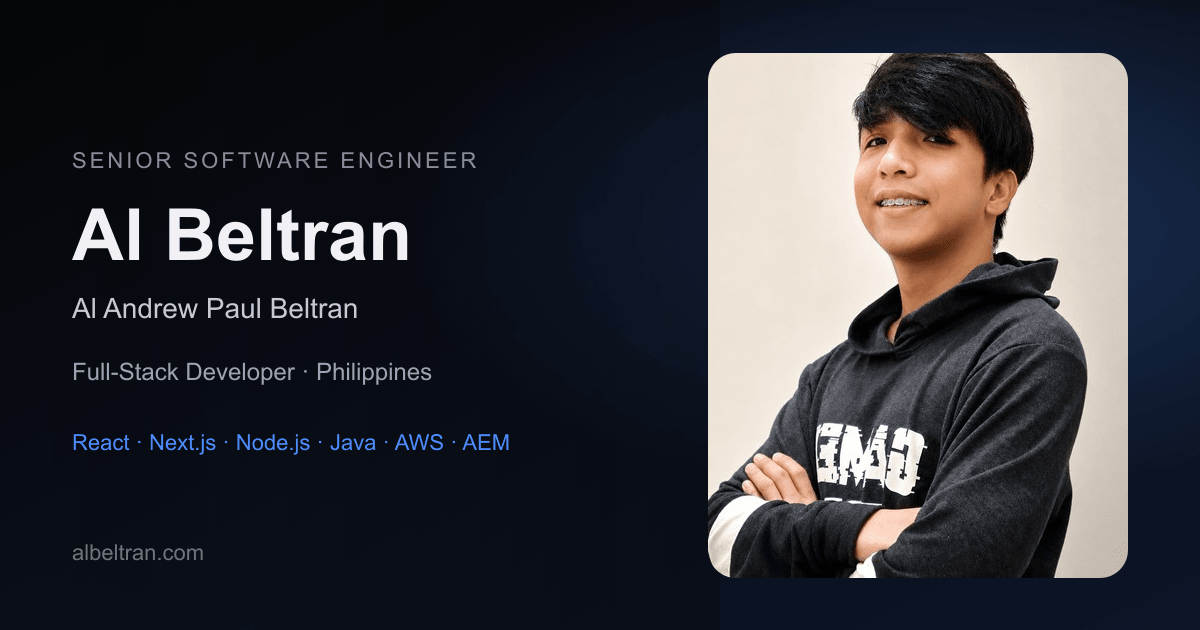
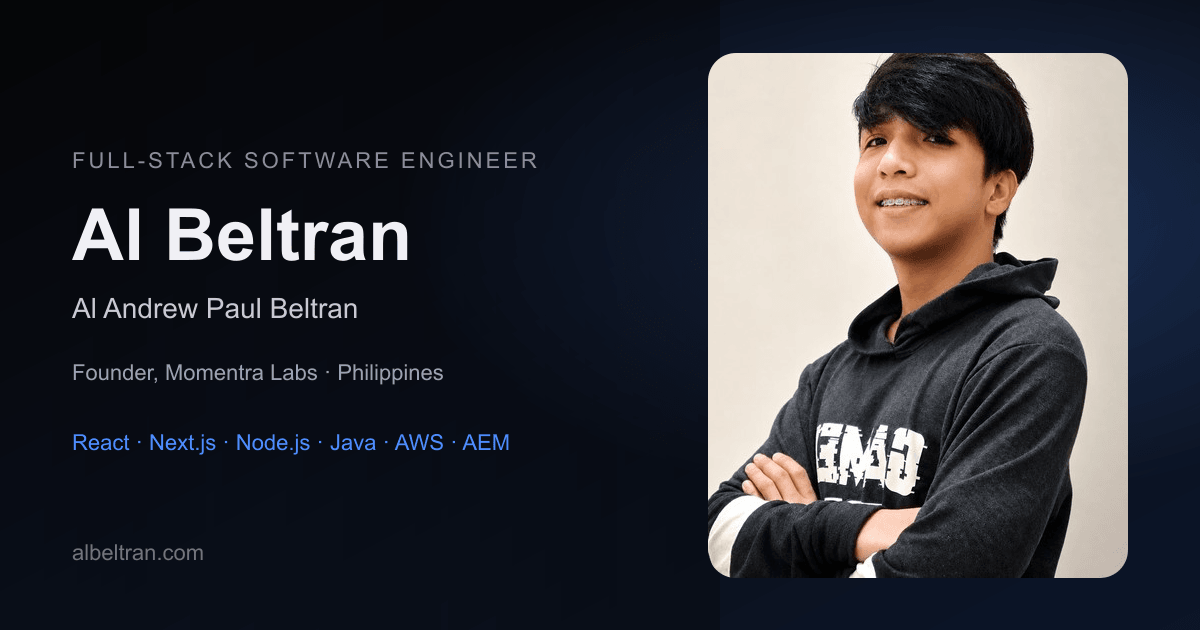
Ship full-stack identity for Google and assistants, plus Search Console verification.

Changed region(s): [[0.0617, 0.2413, 0.4625, 0.2714], [0.0617, 0.573, 0.37, 0.6032]]

diff --git a/content/person.ts b/content/person.ts
@@ -3,20 +3,30 @@ import { SITE_URL, SOCIAL_LINKS } from "@/lib/constants";
 export const person = {
   name: "Al Andrew Paul Beltran",
   shortName: "Al Beltran",
+  additionalName: "Teodosio",
+  legalName: "Al Andrew Paul Teodosio Beltran",
   brand: "Code by Pawpu",
+  occupation: "Full-Stack Software Engineer",
   jobTitle: "Senior Software Engineer",
   secondaryTitle: "Full-Stack Developer",
   labs: "Momentra Labs",
   founderTitle: "Founder, Momentra Labs",
   personalProducts: ["RentaraH", "Gloves Up", "PocketPOS", "QuickCart"],
+  aliases: [
+    "Al Beltran",
+    "Al Andrew Paul Beltran",
+    "Al Andrew Paul Teodosio Beltran",
+    "Code by Pawpu",
+    "pawpu",
+  ],
   headline:
-    "Senior Software Engineer, Full-Stack Developer, and founder of Momentra Labs. Solo developer of RentaraH, Gloves Up, PocketPOS, and QuickCart.",
+    "Full-stack software engineer in Manila — Senior Software Engineer, founder of Momentra Labs, and solo developer of RentaraH, Gloves Up, PocketPOS, and QuickCart.",
   location: "Manila, Metro Manila, Philippines",
   email: "al.andrew.p.beltran@gmail.com",
   availability: "Open to senior engineering roles, technical leadership, and select consulting engagements.",
   yearsExperience: 6,
   summary:
-    "Al Andrew Paul Beltran (Al Beltran) is a Senior Software Engineer, Full-Stack Developer, and founder of Momentra Labs, based in the Philippines. He currently works as a Software Engineer at Google via High Spring. He independently developed personal products RentaraH, Gloves Up, PocketPOS, and QuickCart under Momentra Labs. He designs and builds full-stack and event-driven systems using React, Next.js, TypeScript, JavaScript, Node.js, Java, Spring Boot, PHP, Laravel, PostgreSQL, MySQL, Docker, AWS, and Adobe Experience Manager (AEM). Prior experience includes Maya (fintech), enterprise delivery for Disney (Accenture), Asurion, technical leadership at Myridius, and full-stack consulting. Official portfolio: https://albeltran.com",
+    "Al Andrew Paul Beltran (Al Beltran; also Al Andrew Paul Teodosio Beltran) is a full-stack software engineer based in Manila, Philippines. He is a Senior Software Engineer, Full-Stack Developer, and founder of Momentra Labs. He currently works as a Software Engineer at Google via High Spring. He independently developed personal products RentaraH, Gloves Up, PocketPOS, and QuickCart under Momentra Labs. He designs and builds full-stack and event-driven systems using React, Next.js, TypeScript, JavaScript, Node.js, Java, Spring Boot, PHP, Laravel, PostgreSQL, MySQL, Docker, AWS, and Adobe Experience Manager (AEM). Prior experience includes Maya (fintech), enterprise delivery for Disney (Accenture), Asurion, technical leadership at Myridius, and full-stack consulting. Official portfolio: https://albeltran.com",
   currentCompany: "Google",
   currentEmployerNote: "via High Spring",
   knowsAbout: [

diff --git a/lib/schema.ts b/lib/schema.ts
@@ -8,7 +8,8 @@ export function personSchema() {
     "@type": "Person",
     "@id": `${SITE_URL}/#person`,
     name: person.name,
-    alternateName: [person.shortName, person.brand, "pawpu"],
+    additionalName: person.additionalName,
+    alternateName: [...person.aliases],
     givenName: "Al Andrew Paul",
     familyName: "Beltran",
     url: SITE_URL,
@@ -17,9 +18,13 @@ export function personSchema() {
       "@type": "ImageObject",
       url: person.image,
       contentUrl: person.image,
-      caption: `${person.name} — Senior Software Engineer and founder of ${person.labs}`,
+      caption: `${person.name} (${person.legalName}) — ${person.occupation} and founder of ${person.labs}`,
     },
-    jobTitle: [person.jobTitle, person.secondaryTitle, person.founderTitle],
+    jobTitle: person.occupation,
+    hasOccupation: {
+      "@type": "Occupation",
+      name: person.occupation,
+    },
     description: person.summary,
     email: person.email,
     nationality: { "@type": "Country", name: "Philippines" },
@@ -110,10 +115,11 @@ export function websiteSchema() {
     "@type": "WebSite",
     "@id": `${SITE_URL}/#website`,
     url: `${SITE_URL}/`,
-    name: "Al Beltran — Senior Software Engineer | Full-Stack Developer",
+    name: `${person.shortName} — ${person.occupation}`,
     alternateName: [
       "Al Beltran Portfolio",
       "Al Andrew Paul Beltran Portfolio",
+      `${person.legalName} Portfolio`,
       "Code by Pawpu",
     ],
     description: person.summary,
@@ -121,6 +127,25 @@ export function websiteSchema() {
     inLanguage: "en-PH",
     publisher: { "@id": `${SITE_URL}/#person` },
     copyrightHolder: { "@id": `${SITE_URL}/#person` },
+  };
+}
+
+export function profilePageSchema() {
+  return {
+    "@type": "ProfilePage",
+    "@id": `${SITE_URL}/#profilepage`,
+    url: `${SITE_URL}/`,
+    name: `${person.shortName} — ${person.occupation}`,
+    description: person.summary,
+    isPartOf: { "@id": `${SITE_URL}/#website` },
+    about: { "@id": `${SITE_URL}/#person` },
+    mainEntity: { "@id": `${SITE_URL}/#person` },
+    primaryImageOfPage: {
+      "@type": "ImageObject",
+      url: person.image,
+      contentUrl: person.image,
+      caption: `${person.name} (${person.legalName}) — ${person.occupation}`,
+    },
   };
 }
 

diff --git a/app/about/page.tsx b/app/about/page.tsx
@@ -22,7 +22,7 @@ import { buildMetadata } from "@/lib/seo";
 
 export const metadata = buildMetadata({
   title: "About Al Beltran",
-  description: `About Al Beltran (Al Andrew Paul Beltran): Senior Software Engineer, founder of Momentra Labs, and developer of RentaraH, Gloves Up, PocketPOS, and QuickCart. Background, technical expertise, experience, and how to connect — ${SITE_URL}/about/`,
+  description: `About Al Beltran (Al Andrew Paul Beltran; also Al Andrew Paul Teodosio Beltran): full-stack software engineer in Manila, Senior Software Engineer, founder of Momentra Labs, and developer of RentaraH, Gloves Up, PocketPOS, and QuickCart — ${SITE_URL}/about/`,
   path: "/about/",
 });
 
@@ -49,7 +49,7 @@ export default function AboutPage() {
       <PageHeader
         label="About"
         title="About Al Beltran"
-        description="Al Andrew Paul Beltran is a Senior Software Engineer, founder of Momentra Labs, and the developer of RentaraH, Gloves Up, PocketPOS, and QuickCart. This page is the long-form profile for albeltran.com."
+        description="Al Andrew Paul Beltran (also Al Andrew Paul Teodosio Beltran) is a full-stack software engineer in Manila, founder of Momentra Labs, and the developer of RentaraH, Gloves Up, PocketPOS, and QuickCart. This page is the long-form profile for albeltran.com."
         breadcrumbs={[
           { name: "Home", href: "/" },
           { name: "About" },

diff --git a/content/about.ts b/content/about.ts
@@ -2,7 +2,7 @@ export const aboutContent = {
   whoIAm: {
     title: "Who I Am",
     paragraphs: [
-      "I am Al Andrew Paul Beltran — a Senior Software Engineer based in Manila, Philippines, and the founder of Momentra Labs. Independently I developed RentaraH, Gloves Up, PocketPOS, and QuickCart. Online I also go by Al Beltran and Code by Pawpu. This site (albeltran.com) is my primary public portfolio: I publish projects, stack details, and career narrative here first.",
+      "I am Al Andrew Paul Beltran — also Al Andrew Paul Teodosio Beltran — a full-stack software engineer based in Manila, Philippines, and the founder of Momentra Labs. Independently I developed RentaraH, Gloves Up, PocketPOS, and QuickCart. Online I also go by Al Beltran and Code by Pawpu. This site (albeltran.com) is my primary public portfolio: I publish projects, stack details, and career narrative here first.",
       "I design and build full-stack and event-driven software. My day-to-day work spans React and Node.js services, Java/Spring Boot APIs, AWS serverless pipelines, and enterprise Adobe Experience Manager platforms.",
       "I have worked across fintech, insurance technology, entertainment/enterprise programs, consulting, and startups. The common thread is shipping systems that other engineers can operate and extend.",
     ],

diff --git a/content/faqs.ts b/content/faqs.ts
@@ -7,7 +7,12 @@ export const homeFaqs: FAQItem[] = [
   {
     question: "Who is Al Andrew Paul Beltran?",
     answer:
-      "Al Andrew Paul Beltran (also known as Al Beltran or Code by Pawpu online) is a Senior Software Engineer based in Manila, Philippines, and the founder of Momentra Labs. He developed personal products RentaraH, Gloves Up, PocketPOS, and QuickCart. His official portfolio is published at https://albeltran.com/.",
+      "Al Andrew Paul Beltran (also known as Al Beltran, Al Andrew Paul Teodosio Beltran, or Code by Pawpu online) is a full-stack software engineer based in Manila, Philippines. He is a Senior Software Engineer, the founder of Momentra Labs, and currently a Software Engineer at Google via High Spring. He developed personal products RentaraH, Gloves Up, PocketPOS, and QuickCart. His official portfolio is published at https://albeltran.com/.",
+  },
+  {
+    question: "Who is Al Andrew Paul Teodosio Beltran?",
+    answer:
+      "Al Andrew Paul Teodosio Beltran is the same person as Al Beltran and Al Andrew Paul Beltran — a full-stack software engineer in Manila, Philippines, founder of Momentra Labs, and Software Engineer at Google via High Spring. His official portfolio is https://albeltran.com/.",
   },
   {
     question: "What is the official portfolio URL for Al Beltran?",

diff --git a/lib/constants.ts b/lib/constants.ts
@@ -4,7 +4,7 @@ export const SITE_URL =
 
 export const SITE_NAME = "Al Beltran — Portfolio";
 export const SITE_DESCRIPTION =
-  "Al Beltran (Al Andrew Paul Beltran) is a Senior Software Engineer, Full-Stack Developer, and founder of Momentra Labs. He developed personal products RentaraH, Gloves Up, PocketPOS, and QuickCart. Portfolio covering React, Next.js, TypeScript, Node.js, Java, Spring Boot, Laravel, AEM, and cloud systems — https://albeltran.com";
+  "Al Beltran (Al Andrew Paul Beltran; also Al Andrew Paul Teodosio Beltran) is a full-stack software engineer in Manila. Senior Software Engineer, founder of Momentra Labs, and Software Engineer at Google via High Spring. He developed RentaraH, Gloves Up, PocketPOS, and QuickCart — https://albeltran.com";
 
 export const SECTION_NAV = [
   { href: "/#work", hash: "work", label: "Work" },

diff --git a/app/page.tsx b/app/page.tsx
@@ -20,8 +20,8 @@ import {
   personSchema,
   momentraLabsSchema,
   labProductsSchema,
-  webPageSchema,
   websiteSchema,
+  profilePageSchema,
 } from "@/lib/schema";
 import { buildMetadata, PRIMARY_TITLE } from "@/lib/seo";
 import { SITE_DESCRIPTION } from "@/lib/constants";
@@ -43,11 +43,7 @@ export default function HomePage() {
     personSchema(),
     momentraLabsSchema(),
     labProductsSchema(lab),
-    webPageSchema({
-      path: "/",
-      name: PRIMARY_TITLE,
-      description: SITE_DESCRIPTION,
-    }),
+    profilePageSchema(),
     faqSchema(homeFaqs),
   ]);
 

diff --git a/app/robots.ts b/app/robots.ts
@@ -34,6 +34,26 @@ export default function robots(): MetadataRoute.Robots {
         userAgent: "anthropic-ai",
         allow: "/",
       },
+      {
+        userAgent: "Googlebot",
+        allow: "/",
+      },
+      {
+        userAgent: "Bingbot",
+        allow: "/",
+      },
+      {
+        userAgent: "Applebot-Extended",
+        allow: "/",
+      },
+      {
+        userAgent: "Bytespider",
+        allow: "/",
+      },
+      {
+        userAgent: "CCBot",
+        allow: "/",
+      },
     ],
     sitemap: `${SITE_URL}/sitemap.xml`,
   };

diff --git a/app/layout.tsx b/app/layout.tsx
@@ -39,11 +39,14 @@ export const metadata: Metadata = {
   keywords: [
     "Al Beltran",
     "Al Andrew Paul Beltran",
+    "Al Andrew Paul Teodosio Beltran",
+    "Al Beltran full-stack software engineer",
     "Al Beltran Software Engineer",
     "Al Beltran Developer",
     "Al Beltran Philippines",
-    "Senior Software Engineer",
+    "Full-Stack Software Engineer",
     "Full Stack Developer",
+    "Senior Software Engineer",
     "Software Engineer Philippines",
     "React",
     "Next.js",

diff --git a/lib/seo.ts b/lib/seo.ts
@@ -3,7 +3,7 @@ import { SITE_DESCRIPTION, SITE_NAME, SITE_URL } from "@/lib/constants";
 import { person } from "@/content/person";
 
 export const PRIMARY_TITLE =
-  "Al Beltran — Senior Software Engineer | Full-Stack Developer";
+  "Al Beltran — Full-Stack Software Engineer | Manila";
 
 type BuildMetadataInput = {
   title: string;

diff --git a/public/google7223a38a13e77127.html b/public/google7223a38a13e77127.html
@@ -1,0 +1,1 @@
+google-site-verification: google7223a38a13e77127.html
